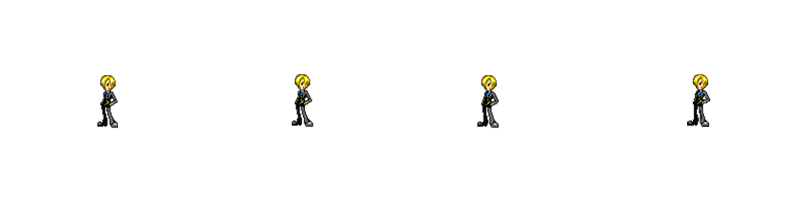
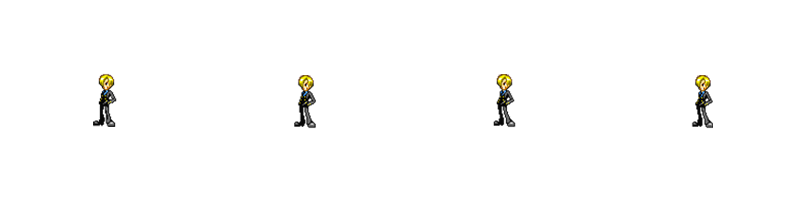
left right

diff --git a/index.js b/index.js
@@ -31,8 +31,8 @@ const player = new Fighter({
     x: 0,
     y: 0
   },
-  imageSrc: './img/Sanji/FacingRight/Idle.png',
-  framesMax: 4,
+  // imageSrc: './img/Sanji/FacingRight/Idle.png',
+  // framesMax: 4,
   scale: 2.5,
   offset: {
     x: 215,
@@ -234,7 +234,12 @@ function animate() {
     player.switchSprite('block')
   }
   else {
+    if (player.position.x > Player2.position.x){
+    player.switchSprite('idleL')
+    }
+    else {
     player.switchSprite('idle')
+    }
   }
 
   // jumping

diff --git a/js/Classes.js b/js/Classes.js
@@ -227,9 +227,9 @@ class Fighter extends Sprite {
       
       //Facing Left
       case 'idleL':
-        if (this.image !== this.sprites.idle.image) {
-          this.image = this.sprites.idle.image
-          this.framesMax = this.sprites.idle.framesMax
+        if (this.image !== this.sprites.idleL.image) {
+          this.image = this.sprites.idleL.image
+          this.framesMax = this.sprites.idleL.framesMax
           this.framesCurrent = 0
         }
         break
